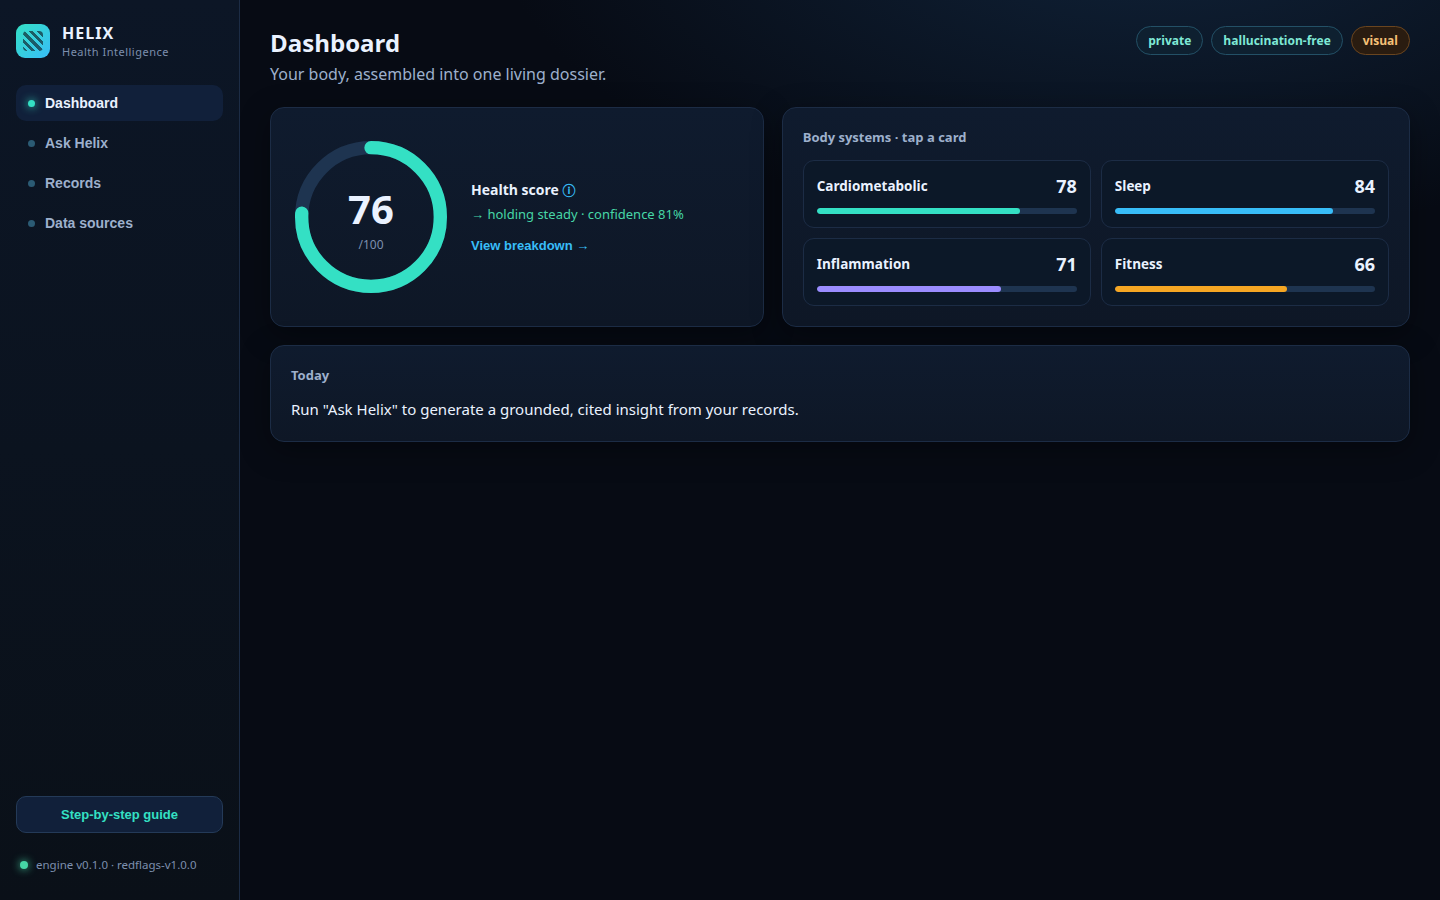
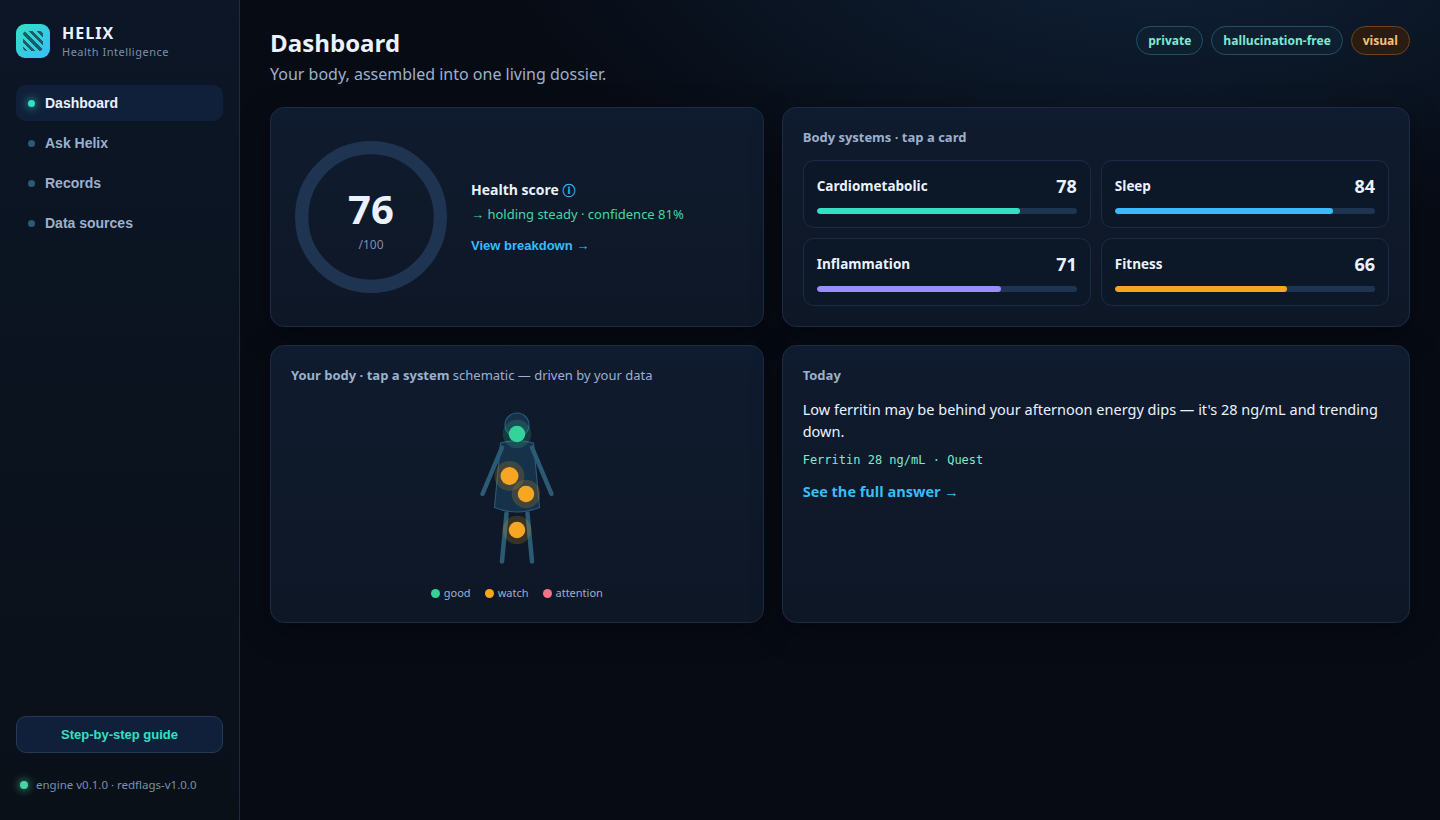
feat(helix-ui): interactive digital twin + dynamic briefing (realizes ADR-015)
Dashboard & mobile UX upgrade:
- Anatomical digital twin (ADR-015, previously N/A): a body silhouette with
  organ/system dots colour-coded from the REAL subsystem scores (good/watch/
  attention), tappable -> system detail modal, with a legend. Schematic and
  strictly data-driven — never a fabricated scan (ADR-015 safety principle).
- 'Today' briefing is now DYNAMIC: the real grounded pipeline insight
  ('ferritin 28 ng/mL, trending down · Quest') with a click-through to the full
  cited answer — replacing the static placeholder.
- Mirrored the twin onto the mobile PWA home screen.

Validated in headless Chrome; dashboard.png + mobile.png refreshed.

Considered ruvnet/rupixel (pixel-native visual RAG): noted as a future capability
for visual lab-document retrieval + a client-side WASM Embedder for helix-retrieval.

diff --git a/helix/ui/app.js b/helix/ui/app.js
@@ -112,6 +112,88 @@ function renderDashboard() {
     el.onclick = () => openSystemModal(s);
     sys.appendChild(el);
   });
+
+  renderTwin();
+  renderBriefing();
+}
+
+// Status colour for a sub-score (schematic, from the user's own data — ADR-015).
+function statusColor(v) {
+  if (v >= 80) return "#34d399"; // good
+  if (v >= 65) return "#f6a623"; // watch
+  return "#fb7185"; // attention
+}
+
+// Anatomical digital twin — organ dots coloured by the real subsystem scores.
+function renderTwin() {
+  const byKey = Object.fromEntries(SUBSYSTEMS.map((s) => [s.subsystem, s]));
+  // organ → subsystem mapping + position on the silhouette
+  const organs = [
+    { sys: "sleep", cx: 100, cy: 40, r: 11, label: "Brain · sleep" },
+    { sys: "cardiometabolic", cx: 90, cy: 96, r: 12, label: "Heart · cardiometabolic" },
+    { sys: "inflammation", cx: 112, cy: 120, r: 11, label: "Gut · inflammation" },
+    { sys: "fitness", cx: 100, cy: 168, r: 11, label: "Legs · fitness" },
+  ];
+  const dots = organs
+    .map((o) => {
+      const s = byKey[o.sys];
+      const c = statusColor(s.value);
+      return `<g class="organ" data-sys="${o.sys}">
+        <circle class="halo" cx="${o.cx}" cy="${o.cy}" r="${o.r + 8}" fill="${c}"></circle>
+        <circle cx="${o.cx}" cy="${o.cy}" r="${o.r}" fill="${c}"></circle></g>`;
+    })
+    .join("");
+  document.getElementById("twin").innerHTML = `
+    <svg viewBox="0 0 200 230" role="img" aria-label="Body systems map">
+      <circle cx="100" cy="28" r="16" class="body-stroke"/>
+      <path d="M78 52 Q100 46 122 52 L130 138 Q100 150 70 138 Z" class="body-stroke"/>
+      <g class="limb">
+        <path d="M80 58 L54 120"/><path d="M120 58 L146 120"/>
+        <path d="M86 146 L80 210"/><path d="M114 146 L120 210"/>
+      </g>
+      ${dots}
+    </svg>
+    <div class="twin-legend">
+      <span><i style="background:#34d399"></i>good</span>
+      <span><i style="background:#f6a623"></i>watch</span>
+      <span><i style="background:#fb7185"></i>attention</span>
+    </div>`;
+  document.querySelectorAll("#twin .organ").forEach((g) => {
+    g.onclick = () => {
+      const s = SUBSYSTEMS.find((x) => x.subsystem === g.dataset.sys);
+      openSystemModal(s);
+    };
+  });
+}
+
+// Dynamic "Today" briefing — the real grounded insight from the pipeline.
+function renderBriefing() {
+  const q = QUESTIONS[0]; // ferritin
+  const out = JSON.parse(
+    analyze_json(
+      JSON.stringify({
+        concept_code: q.code,
+        records: records.filter((r) => r.code === q.code),
+        now: NOW, staleness_window_days: 365, confidence_floor: 0.5,
+        reference_low: q.lo, reference_high: q.hi, flat_band_per_day: 0.01,
+      })
+    )
+  );
+  const el = document.getElementById("briefing");
+  if (out.outcome === "answered" && out.claims?.length) {
+    const tr = out.trend;
+    const e = out.claims[0].evidence[out.claims[0].evidence.length - 1];
+    el.innerHTML = `Low ferritin may be behind your afternoon energy dips — it's ${e.value} ${e.unit}
+      and ${tr.direction === "falling" ? "trending down" : tr.direction}.
+      <span class="b-cite">${e.concept} ${e.value} ${e.unit} · ${e.source}</span>
+      <span class="b-act" id="brief-ask">See the full answer →</span>`;
+    document.getElementById("brief-ask").onclick = () => {
+      document.querySelector('.nav-item[data-view="ask"]').click();
+      runAsk();
+    };
+  } else {
+    el.textContent = "Everything looks steady today.";
+  }
 }
 
 function overallTrend() {

diff --git a/helix/mobile/mobile.js b/helix/mobile/mobile.js
@@ -36,6 +36,7 @@ async function boot() {
   document.getElementById("m-ring").style.strokeDashoffset = 377 - (377 * score.value) / 100;
   document.getElementById("m-trend").textContent = `health score · ${Math.round(score.confidence * 100)}% conf`;
 
+  renderTwin();
   document.getElementById("m-systems").innerHTML = SYS.map((s) =>
     `<div class="m-sys"><div class="n">${s.n}</div><div class="v">${s.v}</div>
       <div class="bar"><i style="width:${s.v}%;background:${s.c}"></i></div></div>`).join("");
@@ -69,6 +70,24 @@ function renderAnswer(out) {
     <span class="m-tier">TIER 1 · YOUR DATA</span>
     ${out.recommendation ? `<p style="margin-top:8px;color:#d7e3f2;font-size:13px">${out.recommendation.text}</p>` : ""}
     <div class="m-disc">Not a diagnosis · every claim traces to a dated source.</div></div>`;
+}
+
+function statusColor(v) {
+  return v >= 80 ? "#34d399" : v >= 65 ? "#f6a623" : "#fb7185";
+}
+function renderTwin() {
+  const c = (i) => statusColor(SYS[i].v);
+  document.getElementById("m-twin").innerHTML = `
+    <svg viewBox="0 0 200 230" role="img" aria-label="Body systems map">
+      <circle cx="100" cy="28" r="16" class="body-stroke"/>
+      <path d="M78 52 Q100 46 122 52 L130 138 Q100 150 70 138 Z" class="body-stroke"/>
+      <g class="limb"><path d="M80 58 L54 120"/><path d="M120 58 L146 120"/>
+        <path d="M86 146 L80 210"/><path d="M114 146 L120 210"/></g>
+      <g class="organ"><circle class="halo" cx="100" cy="40" r="19" fill="${c(1)}"/><circle cx="100" cy="40" r="11" fill="${c(1)}"/></g>
+      <g class="organ"><circle class="halo" cx="90" cy="96" r="20" fill="${c(0)}"/><circle cx="90" cy="96" r="12" fill="${c(0)}"/></g>
+      <g class="organ"><circle class="halo" cx="112" cy="120" r="19" fill="${c(2)}"/><circle cx="112" cy="120" r="11" fill="${c(2)}"/></g>
+      <g class="organ"><circle class="halo" cx="100" cy="168" r="19" fill="${c(3)}"/><circle cx="100" cy="168" r="11" fill="${c(3)}"/></g>
+    </svg>`;
 }
 
 function show(id) {

diff --git a/helix/ui/app.css b/helix/ui/app.css
@@ -86,8 +86,22 @@ body {
 .system .s-bar { height: 6px; border-radius: 4px; background: #1e3450; margin-top: 10px; overflow: hidden; }
 .system .s-bar i { display: block; height: 100%; border-radius: 4px; }
 
-.briefing-card { grid-column: 1 / -1; }
-.briefing { font-size: 15px; line-height: 1.5; }
+.briefing-card { display: flex; flex-direction: column; }
+.briefing { font-size: 14.5px; line-height: 1.55; }
+.briefing .b-cite { font-family: ui-monospace, Menlo, monospace; font-size: 12px; color: #7fe9cf; margin-top: 8px; display: block; }
+.briefing .b-act { color: var(--vital2); font-weight: 700; cursor: pointer; margin-top: 10px; display: inline-block; }
+
+/* Digital twin */
+.twin-card .card-title { display: block; }
+.twin { display: grid; place-items: center; padding: 6px 0 2px; }
+.twin svg { width: 150px; height: auto; }
+.twin .organ { cursor: pointer; transition: .15s; }
+.twin .organ:hover { filter: brightness(1.3); }
+.twin .halo { opacity: .18; }
+.twin .body-stroke { fill: #16314a; stroke: #2b5b74; stroke-width: 1.5; }
+.twin .limb { stroke: #2b5b74; stroke-width: 6; stroke-linecap: round; fill: none; }
+.twin-legend { display: flex; gap: 14px; justify-content: center; margin-top: 8px; font-size: 11px; color: var(--muted); }
+.twin-legend i { width: 9px; height: 9px; border-radius: 50%; display: inline-block; margin-right: 4px; vertical-align: middle; }
 
 /* Ask */
 .ask-shell { display: grid; grid-template-columns: 320px 1fr; gap: 18px; }

diff --git a/helix/mobile/mobile.css b/helix/mobile/mobile.css
@@ -43,6 +43,12 @@ body {
 .score-cap { position: absolute; bottom: 4px; color: var(--ok); font-size: 13px; font-weight: 600; }
 
 .m-section-label { color: var(--muted2); font-size: 11px; letter-spacing: 1.4px; font-weight: 700; }
+.m-twin { display: grid; place-items: center; }
+.m-twin svg { width: 124px; height: auto; }
+.m-twin .body-stroke { fill: #16314a; stroke: #2b5b74; stroke-width: 1.5; }
+.m-twin .limb { stroke: #2b5b74; stroke-width: 6; stroke-linecap: round; fill: none; }
+.m-twin .organ { cursor: pointer; }
+.m-twin .halo { opacity: .18; }
 .m-systems { display: grid; grid-template-columns: 1fr 1fr; gap: 10px; }
 .m-sys { background: #0c1828; border: 1px solid var(--line); border-radius: 14px; padding: 14px; }
 .m-sys .n { font-size: 13px; font-weight: 700; }

diff --git a/helix/ui/index.html b/helix/ui/index.html
@@ -103,9 +103,14 @@
             <div class="systems" id="systems"></div>
           </div>
 
+          <div class="card twin-card">
+            <div class="card-title">Your body · tap a system <span class="muted" style="font-weight:400">schematic — driven by your data</span></div>
+            <div class="twin" id="twin"></div>
+          </div>
+
           <div class="card briefing-card">
             <div class="card-title">Today</div>
-            <div class="briefing" id="briefing">Run "Ask Helix" to generate a grounded, cited insight from your records.</div>
+            <div class="briefing" id="briefing">Reading your dossier…</div>
           </div>
         </div>
       </section>

diff --git a/helix/mobile/index.html b/helix/mobile/index.html
@@ -32,6 +32,7 @@
       </div>
 
       <div class="m-section-label">Your body · tap a system</div>
+      <div class="m-twin" id="m-twin"></div>
       <div class="m-systems" id="m-systems"></div>
 
       <button class="m-brief" id="m-brief">
